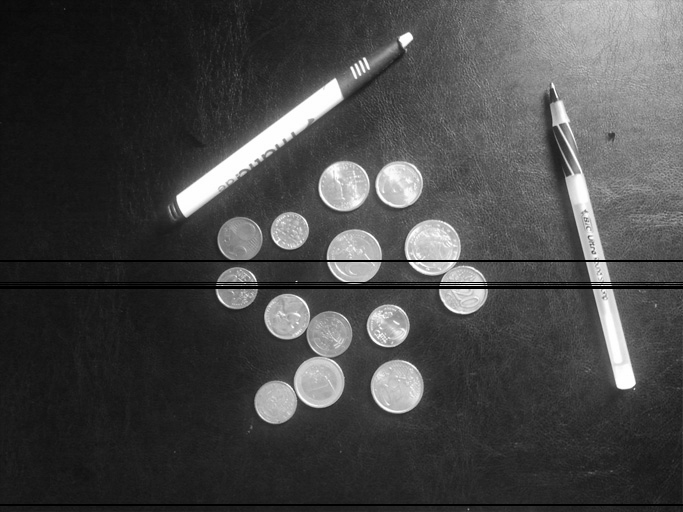
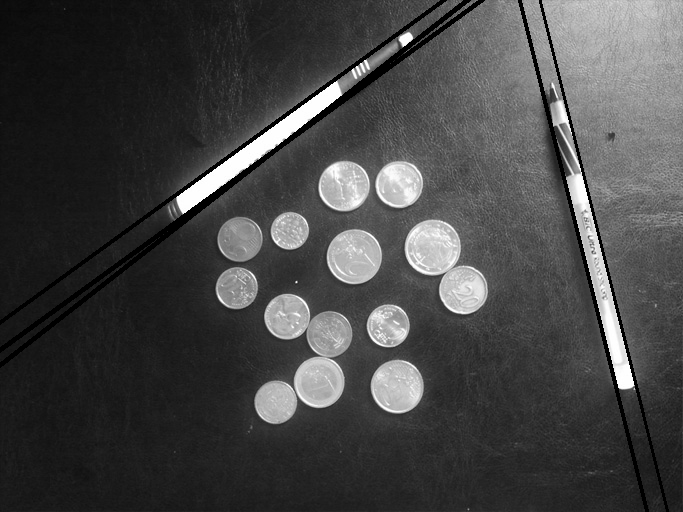
Improvements to hough line drawing function
Taken from http://opencv-python-tutroals.readthedocs.org/en/latest/py_tutorials/py_imgproc/py_houghlines/py_houghlines.html

Changed region(s): [[0.0922, 0.0, 1.0, 1.0], [0.2152, 0.9688, 0.246, 1.0], [0.0615, 0.625, 0.0922, 0.6562]]

diff --git a/CV/Assignments/Assignment2/ps2/ps2.py b/CV/Assignments/Assignment2/ps2/ps2.py
@@ -113,71 +113,23 @@ def hough_lines_draw(img_out, peaks, rho, theta):
         peaks: Px2 matrix where each row is a (rho_idx, theta_idx) index pair
         rho: vector of rho values, such that rho[rho_idx] is a valid rho value
         theta: vector of theta values, such that theta[theta_idx] is a valid theta value
-    """
-    
-    #height, width, channel = img_out.shape
-    #max_d = np.ceil( np.sqrt( height**2 + width**2 ) )
-    
-    # For each peak, generate a line
-    # I have a d and a theta. I need an x and y
+    """   
+        
     for peak in peaks:
-               
-        # We can't solve for x and y directly. We first have to set one,
-        # and then we can solve for the other        
-        x_start = 0
-        y_start = 0
+        a = cos( theta[ peak[1] ] )
+        b = sin( theta[ peak[1] ] )
         
-        x_end = 0
-        y_end = 0
-                
-        # Horizontal line (i.e., theta = pi/2)
-        if theta[ peak[1] ] == pi/2 or theta[ peak[1] ] == -pi/2:
-            #print 'Theta is pi/2'
-            # Find the value for x (it will be fixed) 
-            x_start = rho[ peak[0] ]
-            x_end = rho[ peak[0] ]
-            
-            # The y value will go from top to bottom
-            y_start = 0
-            y_end = img_out.shape[0]
-            
-        # Vertical line (theta = 0 or -pi)
-        # Due to numerical imprecision, need to have a range
-        elif theta[ peak[1] ] <= 0.1 or theta[peak[1]] >= -0.1 :
-            #print 'theta is 0'
-            # Find the value for y (it will be fixed)
-            y_start = rho[ peak[0] ]
-            y_end = rho[ peak[0] ]
-            
-            # The x value will from left to right
-            x_start = 0
-            x_end = img_out.shape[1]
-                    
-        # Diagonal line
-        else:
-            # The x values will go from side to side
-            x_start = 0
-            x_end = img_out.shape[1]
-            
-            # Calculate the y values
-            y_start = (-rho[ peak[0] ])/ (sin( theta[ peak[1] ] ))
-            y_end = x_end*cos( rho[ peak[0] ] ) - rho[ peak[0] ]*sin( theta[ peak[1] ] )
+        x0 = a*rho[ peak[0] ]
+        y0 = b*rho[ peak[0] ]
+        x1 = int( x0 + 1000*(-b) )
+        y1 = int(y0 + 1000*a)
+        x2 = int(x0-1000*(-b))
+        y2 = int(y0-1000*a)
         
-        #endif
-        
-        x_start = abs(int(x_start))
-        x_end = abs(int(x_end))
-        y_start = abs(int(y_start))
-        y_end = abs(int(y_end))
-        
-        #print x_start, x_end, y_start, y_end
-        
-        cv2.line( img_out, (x_start, y_start), (x_end, y_end), (0, 255, 0) )
-        
+        cv2.line( img_out, (x1,y1), (x2,y2), (0,255,0), 2)       
     #endfor
-    
-    
-    pass  # TODO: Your code here (nothing to return, just draw on img_out directly)
+        
+    pass
 
 def normalize_accum_array(H):
     """ Normalize a Hough Accumulator array
